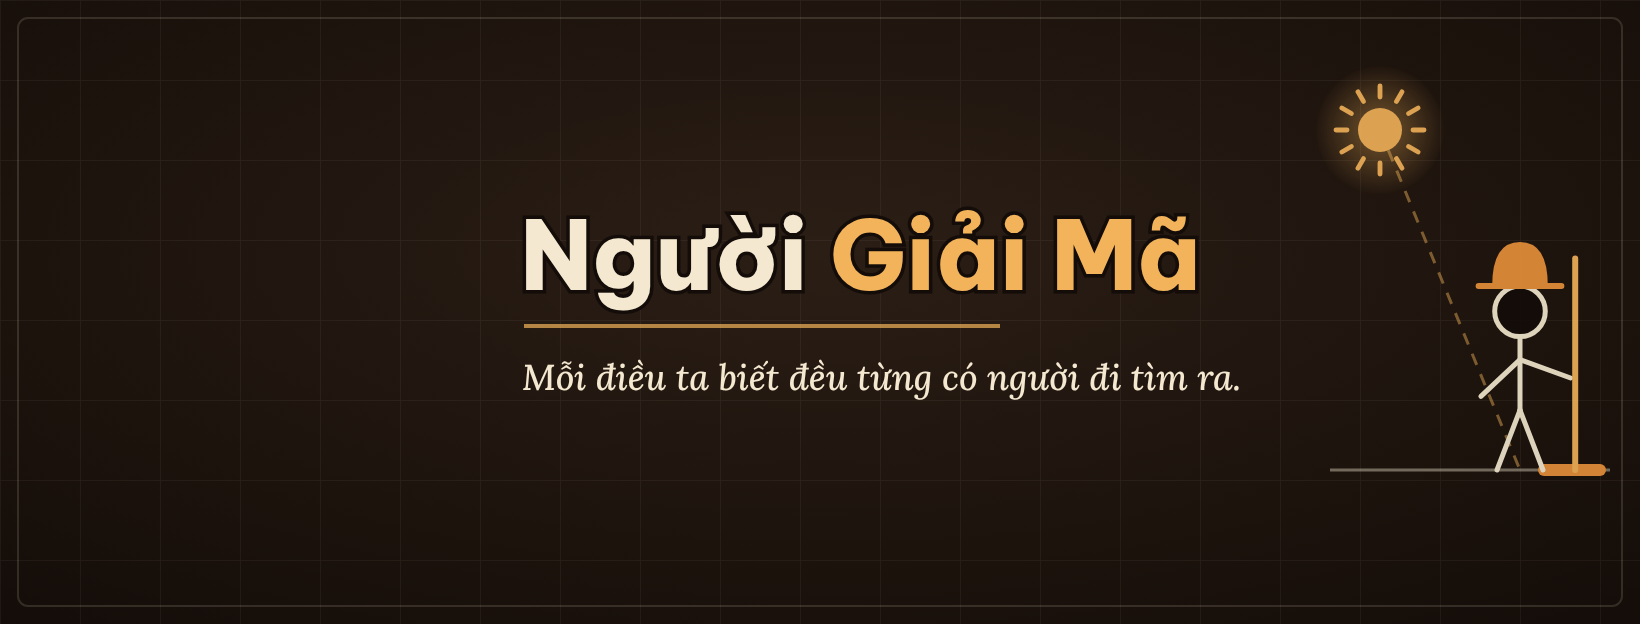
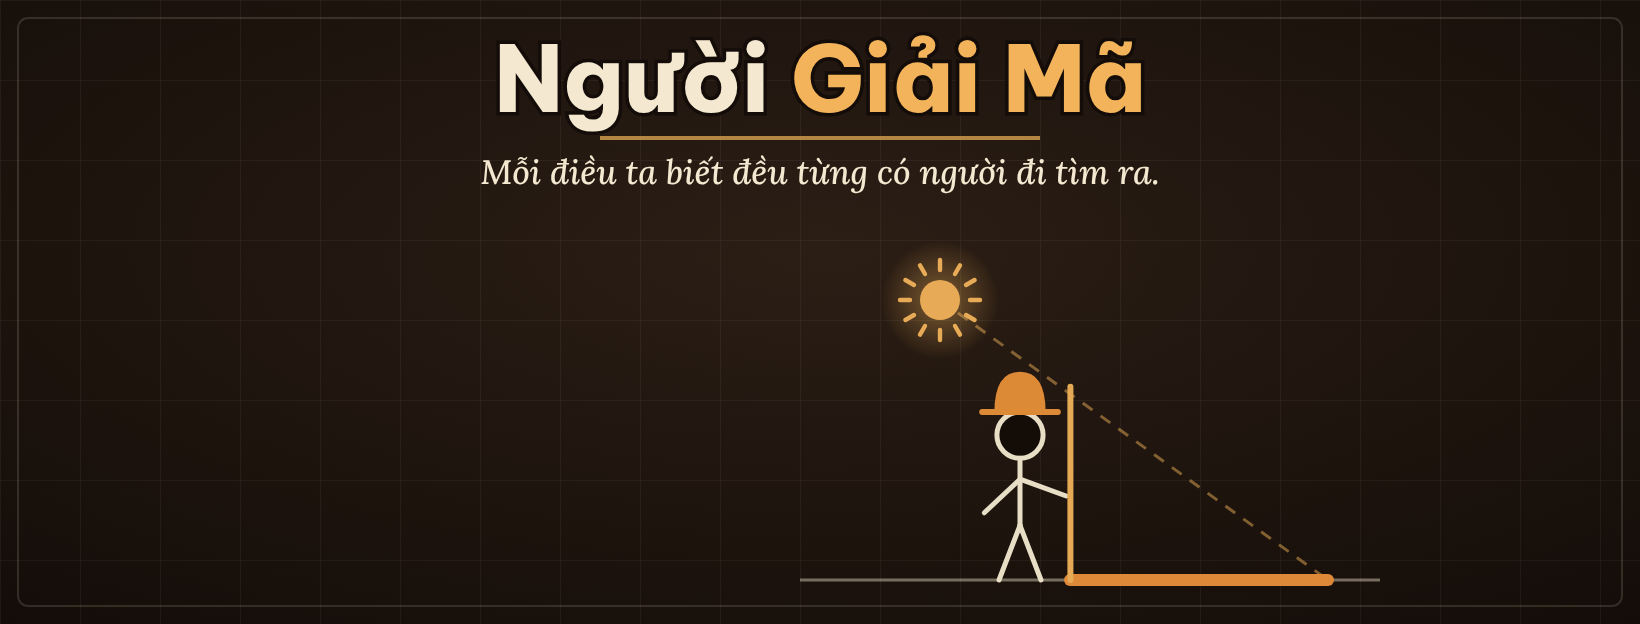
Ảnh bìa Người Giải Mã: dồn chữ vào vùng an toàn khi xem trên điện thoại
Claude-Session: https://claude.ai/code/session_018d56h9HfGKjRxJAiKnJvEm

diff --git a/assets/page-nguoi-giai-ma/tao_page.py b/assets/page-nguoi-giai-ma/tao_page.py
@@ -72,16 +72,17 @@ AVATAR = f'''<svg xmlns="http://www.w3.org/2000/svg" width="1080" height="1080" 
 COVER = f'''<svg xmlns="http://www.w3.org/2000/svg" width="1640" height="624" viewBox="0 0 1640 624">{DEFS}
 <rect width="1640" height="624" fill="url(#bg)"/><rect width="1640" height="624" fill="url(#grid)"/>
 <rect x="18" y="18" width="1604" height="588" rx="10" fill="none" stroke="{CREAM}" stroke-width="2" opacity=".14"/>
-<g opacity=".9">
- <line x1="1330" y1="470" x2="1610" y2="470" stroke="{CREAM}" stroke-width="3" opacity=".45"/>
- {sun(1380, 130, 22)}
- <line x1="1380" y1="130" x2="1520" y2="470" stroke="{AMBER}" stroke-width="3" stroke-dasharray="12 10" opacity=".5"/>
- <line x1="1544" y1="470" x2="1600" y2="470" stroke="{DEEP}" stroke-width="12" stroke-linecap="round"/>
- {hero(1520, 470, 2.3)}
+<!-- Vùng an toàn: điện thoại chỉ hiện giữa ảnh (x 265..1375); avatar che nửa dưới bên trái (x<750, y>205) -->
+<text x="820" y="112" text-anchor="middle" font-family="BeVN" font-weight="800" font-size="92" fill="{CREAM}" stroke="{BG2}" stroke-width="7" paint-order="stroke">Người <tspan fill="{AMBER}">Giải Mã</tspan></text>
+<line x1="600" y1="138" x2="1040" y2="138" stroke="{AMBER}" stroke-width="4" opacity=".7"/>
+<text x="820" y="184" text-anchor="middle" font-family="Lora" font-style="italic" font-weight="500" font-size="34" fill="{CREAM}">Mỗi điều ta biết đều từng có người đi tìm ra.</text>
+<g opacity=".95">
+ <line x1="800" y1="580" x2="1380" y2="580" stroke="{CREAM}" stroke-width="3" opacity=".45"/>
+ {sun(940, 300, 20)}
+ <line x1="940" y1="300" x2="1328" y2="580" stroke="{AMBER}" stroke-width="3" stroke-dasharray="12 10" opacity=".5"/>
+ <line x1="1070" y1="580" x2="1328" y2="580" stroke="{DEEP}" stroke-width="12" stroke-linecap="round"/>
+ {hero(1020, 580, 2.1)}
 </g>
-<text x="520" y="290" font-family="BeVN" font-weight="800" font-size="96" fill="{CREAM}" stroke="{BG2}" stroke-width="7" paint-order="stroke">Người <tspan fill="{AMBER}">Giải Mã</tspan></text>
-<line x1="524" y1="326" x2="1000" y2="326" stroke="{AMBER}" stroke-width="4" opacity=".7"/>
-<text x="522" y="390" font-family="Lora" font-style="italic" font-weight="500" font-size="36" fill="{CREAM}">Mỗi điều ta biết đều từng có người đi tìm ra.</text>
 </svg>'''
 
 with sync_playwright() as p:
